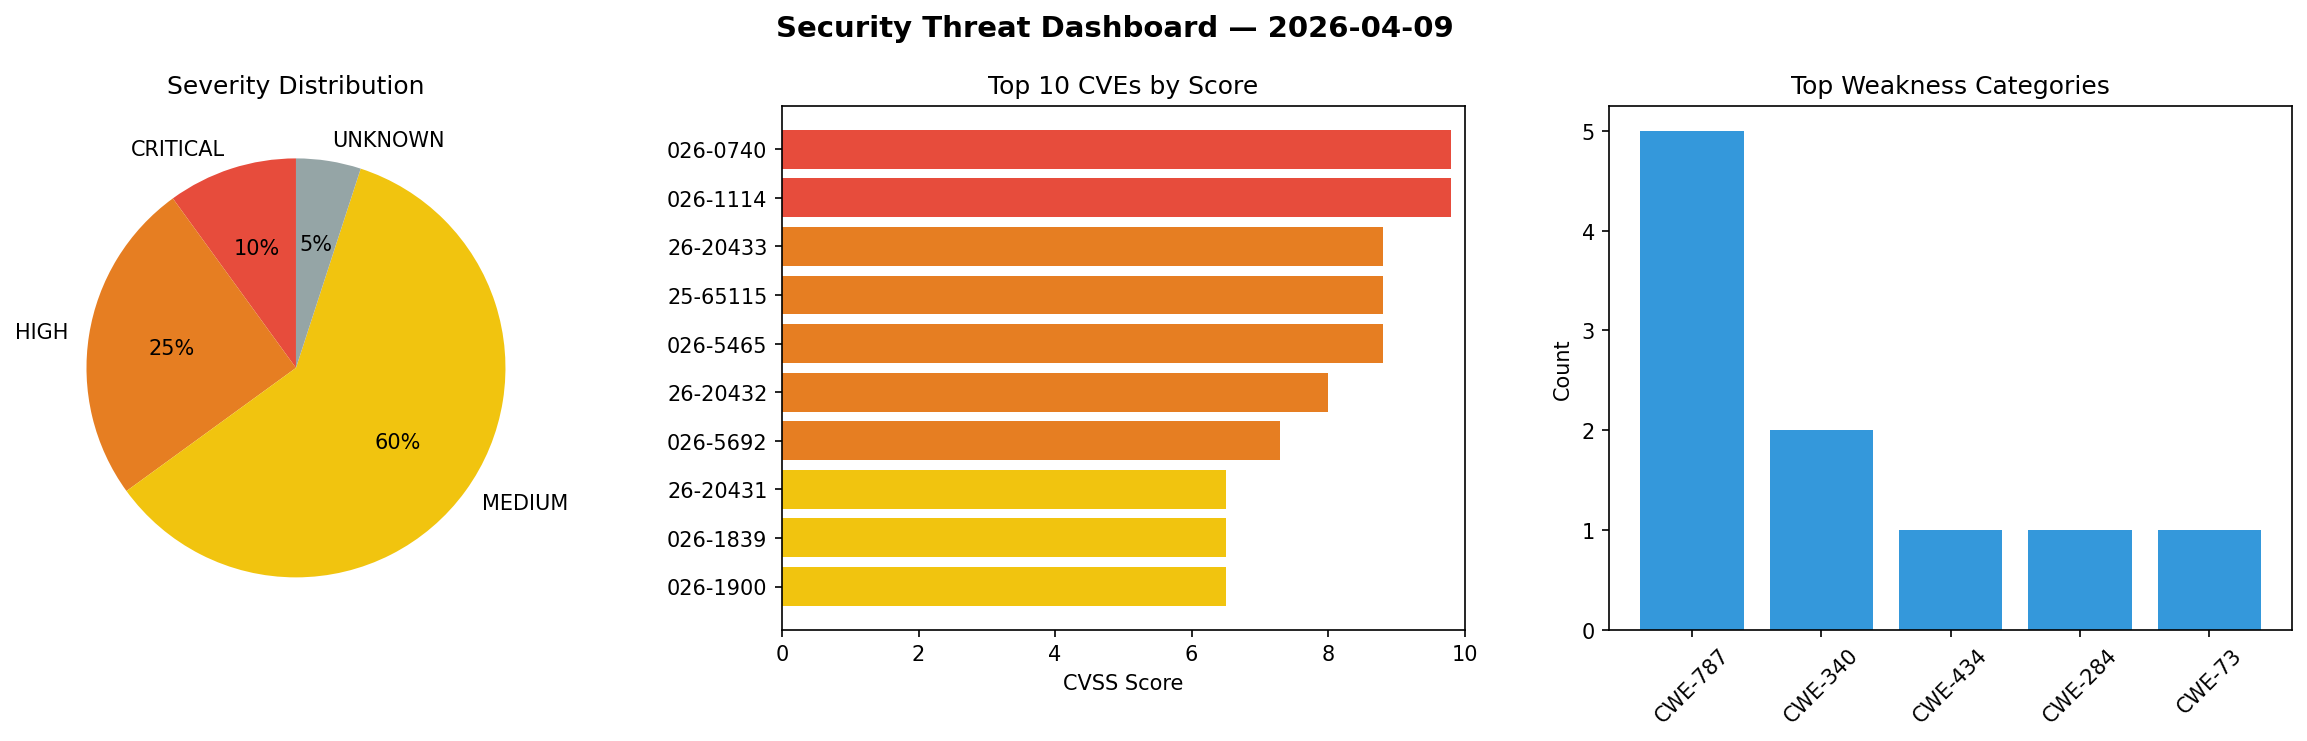
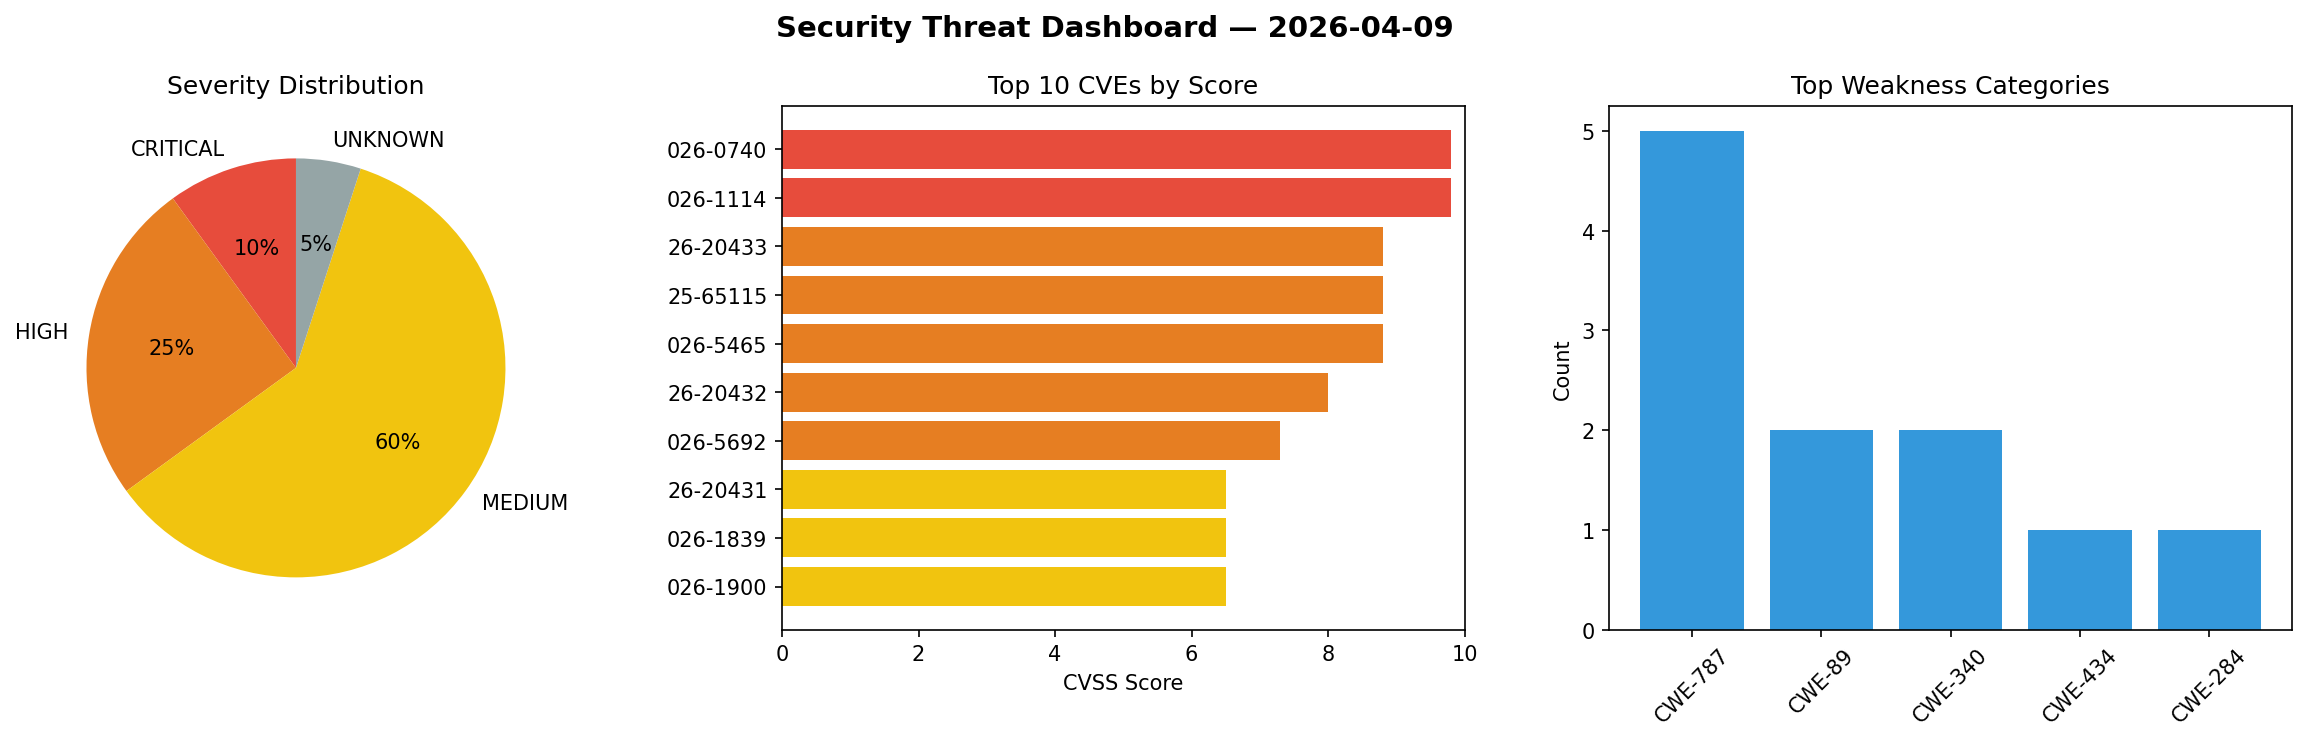
daily-experiments: security scan 2026-04-09T21:06

diff --git a/logs/2026-04-09.md b/logs/2026-04-09.md
@@ -1,6 +1,6 @@
 # Security Scan Report — 2026-04-09
 
-**Scan ID:** `96a0e17fd3` | **CVEs:** 20 | **Threat Index:** 338.7
+**Scan ID:** `5b4f5a3b18` | **CVEs:** 20 | **Threat Index:** 338.7
 
 ![Dashboard](2026-04-09_dashboard.png)
 
@@ -30,10 +30,10 @@
 | CWE | Count |
 |-----|-------|
 | CWE-787 | 5 |
+| CWE-89 | 2 |
 | CWE-340 | 2 |
 | CWE-434 | 1 |
 | CWE-284 | 1 |
-| CWE-73 | 1 |
 
 ## CVE Details
 
